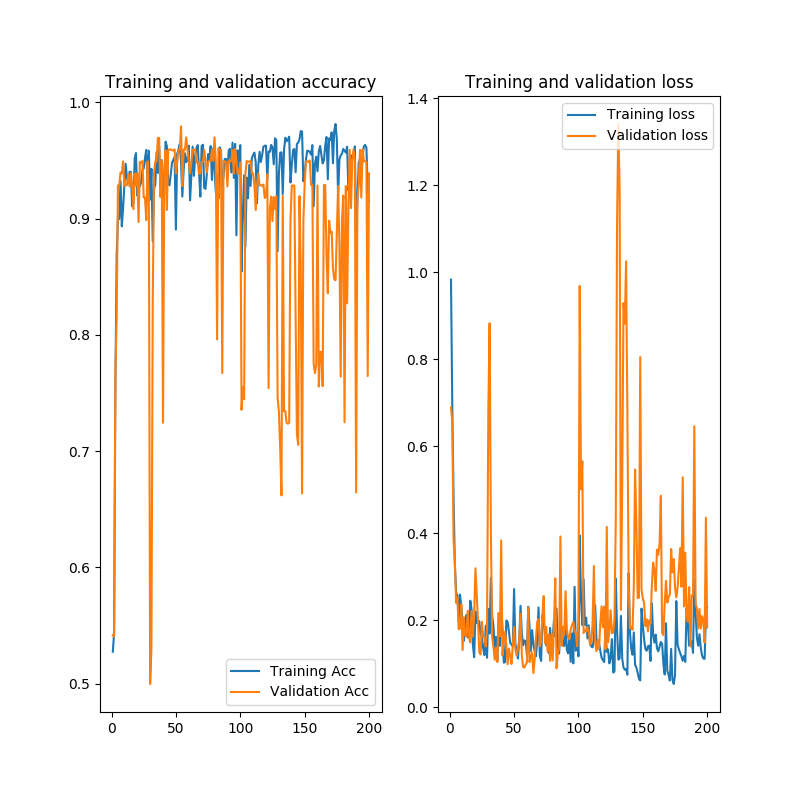
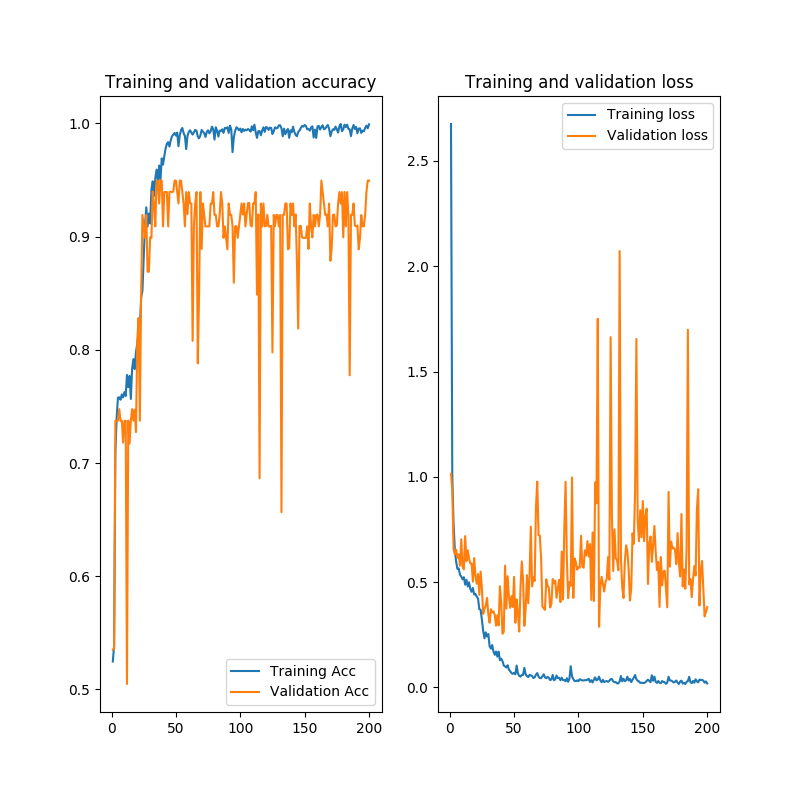
update

diff --git a/main_categorical.py b/main_categorical.py
@@ -1,6 +1,6 @@
 import os
 from tensorflow.python.keras.layers import Dense, Conv2D, Flatten, Dropout, MaxPooling2D
-from tensorflow.python.keras import models
+from tensorflow.python.keras import models, regularizers
 from tensorflow.python.keras import optimizers
 from tensorflow.python.keras.preprocessing.image import ImageDataGenerator
 
@@ -14,13 +14,15 @@ IMG_WIDTH = 150
 _epochs = 200
 batch_size = 32
 
+def main():
+
   base_dir = '/home/ubuntu/project/ojt'
 
   train_dir = os.path.join(base_dir, 'train')
   validation_dir = os.path.join(base_dir, 'validation')
   
   labels = []
-  with open('./lables.txt', 'r') as f:
+  with open('./labels.txt', 'r') as f:
     for line in f:
       labels.append(line.rstrip())
   print(labels)
@@ -28,9 +30,9 @@ batch_size = 32
   num_train = 0
   num_validation = 0
 
-  for(label in labels):
+  for label in labels:
     num_train = num_train + len(os.listdir(os.path.join(train_dir, label)))
-    num_validation = num_validaiton + len(os.listdir(os.path.join(validation_dir, label)))
+    num_validation = num_validation + len(os.listdir(os.path.join(validation_dir, label)))
 
   print('train images : ' + str(num_train))
   print('validation images : ' + str(num_validation))
@@ -50,23 +52,30 @@ batch_size = 32
 #  model.compile(loss='binary_crossentropy', optimizer=optimizers.RMSprop(lr=1e-4), metrics=['acc'])
   
   model = models.Sequential([
-    Conv2D(16, 3, padding='same', activation='relu', input_shape=(IMG_HEIGHT, IMG_WIDTH ,3)),
+    Conv2D(16, 3, padding='same', activation='relu', input_shape=(IMG_HEIGHT, IMG_WIDTH, 3)),
     MaxPooling2D(),
-    Dropout(0.4),
+    #Dropout(0.12),
     Conv2D(32, 3, padding='same', activation='relu'),
     MaxPooling2D(),
     Conv2D(64, 3, padding='same', activation='relu'),
     MaxPooling2D(),
-    Dropout(0.4),
+    Dropout(0.2),
     Flatten(),
-    Dense(512, activation='relu'),
+    Dense(256, activation='relu', activity_regularizer=regularizers.l2(l=0.001)),
+    Dropout(0.5),
     #Dense(1, activation='sigmoid')
     Dense(3, activation='softmax')
   ])
+
+  # Save JSON config to disk
+  json_config = model.to_json()
+  with open('net.json', 'w') as json_file:
+    json_file.write(json_config)
+  # Save weights to disk
   
   model.compile(optimizer='adam', loss='categorical_crossentropy', metrics=['acc'])
 
-  train_datagen = ImageDataGenerator(rescale=1./255, rotation_range=45, horizontal_flip=True, zoom_range=0.25)
+  train_datagen = ImageDataGenerator(rescale=1./255, rotation_range=30, horizontal_flip=True, zoom_range=0.25, width_shift_range=.10, height_shift_range=.10)
   test_datagen = ImageDataGenerator(rescale=1./255)
 
   train_generator = train_datagen.flow_from_directory(train_dir, target_size=(IMG_HEIGHT, IMG_WIDTH), batch_size=batch_size, class_mode='categorical')
